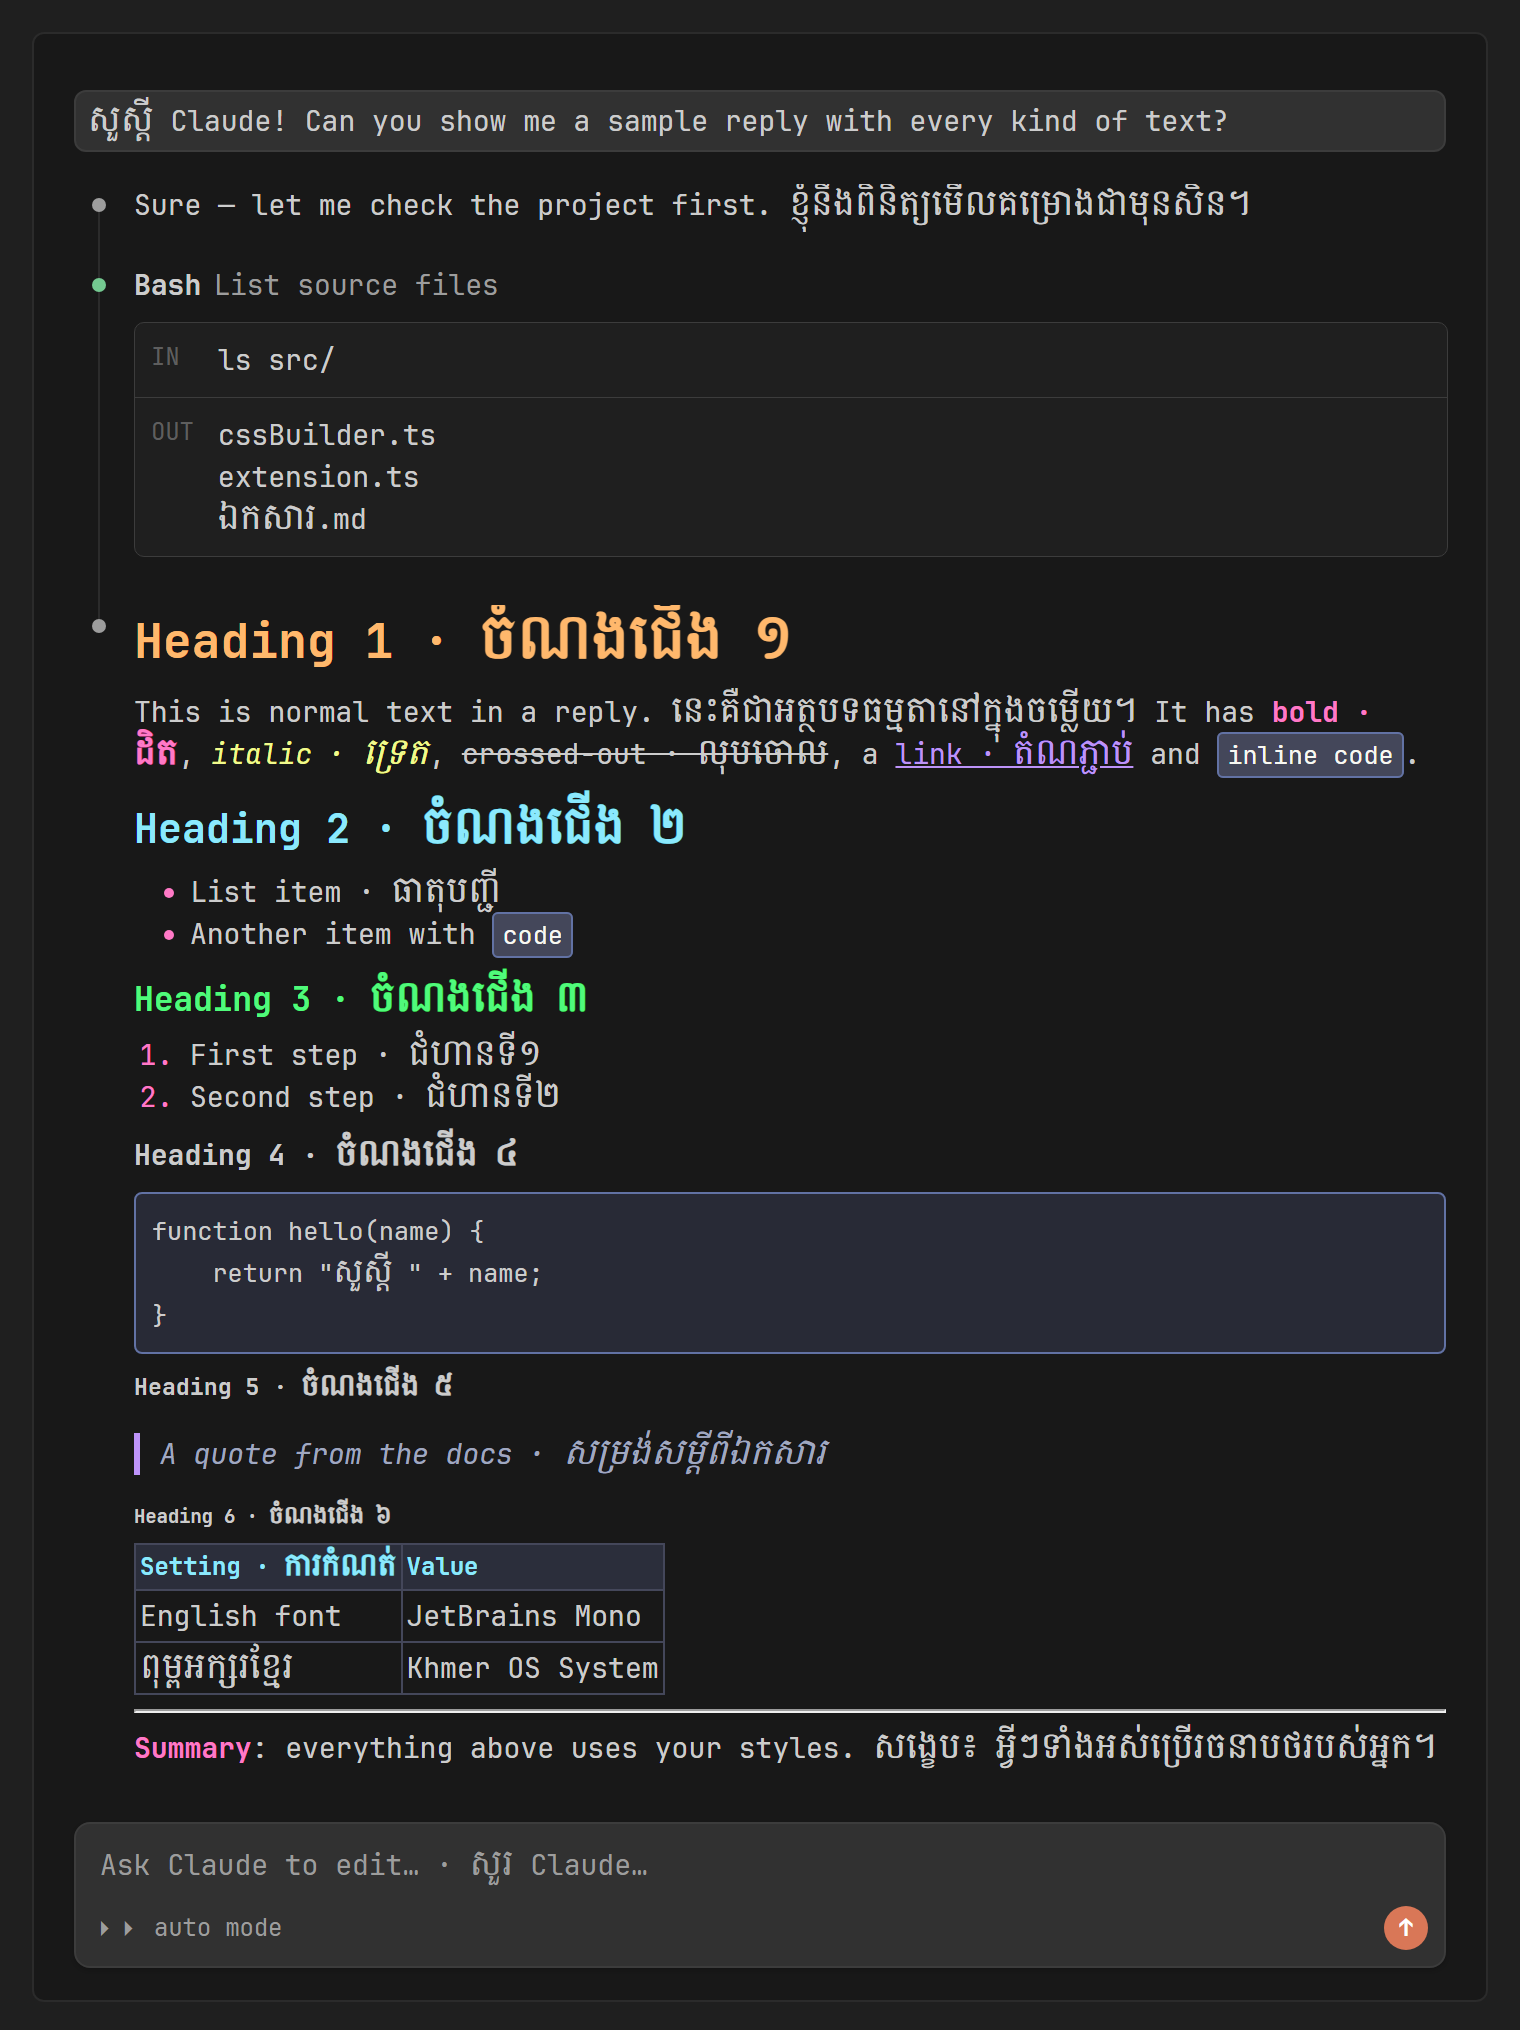
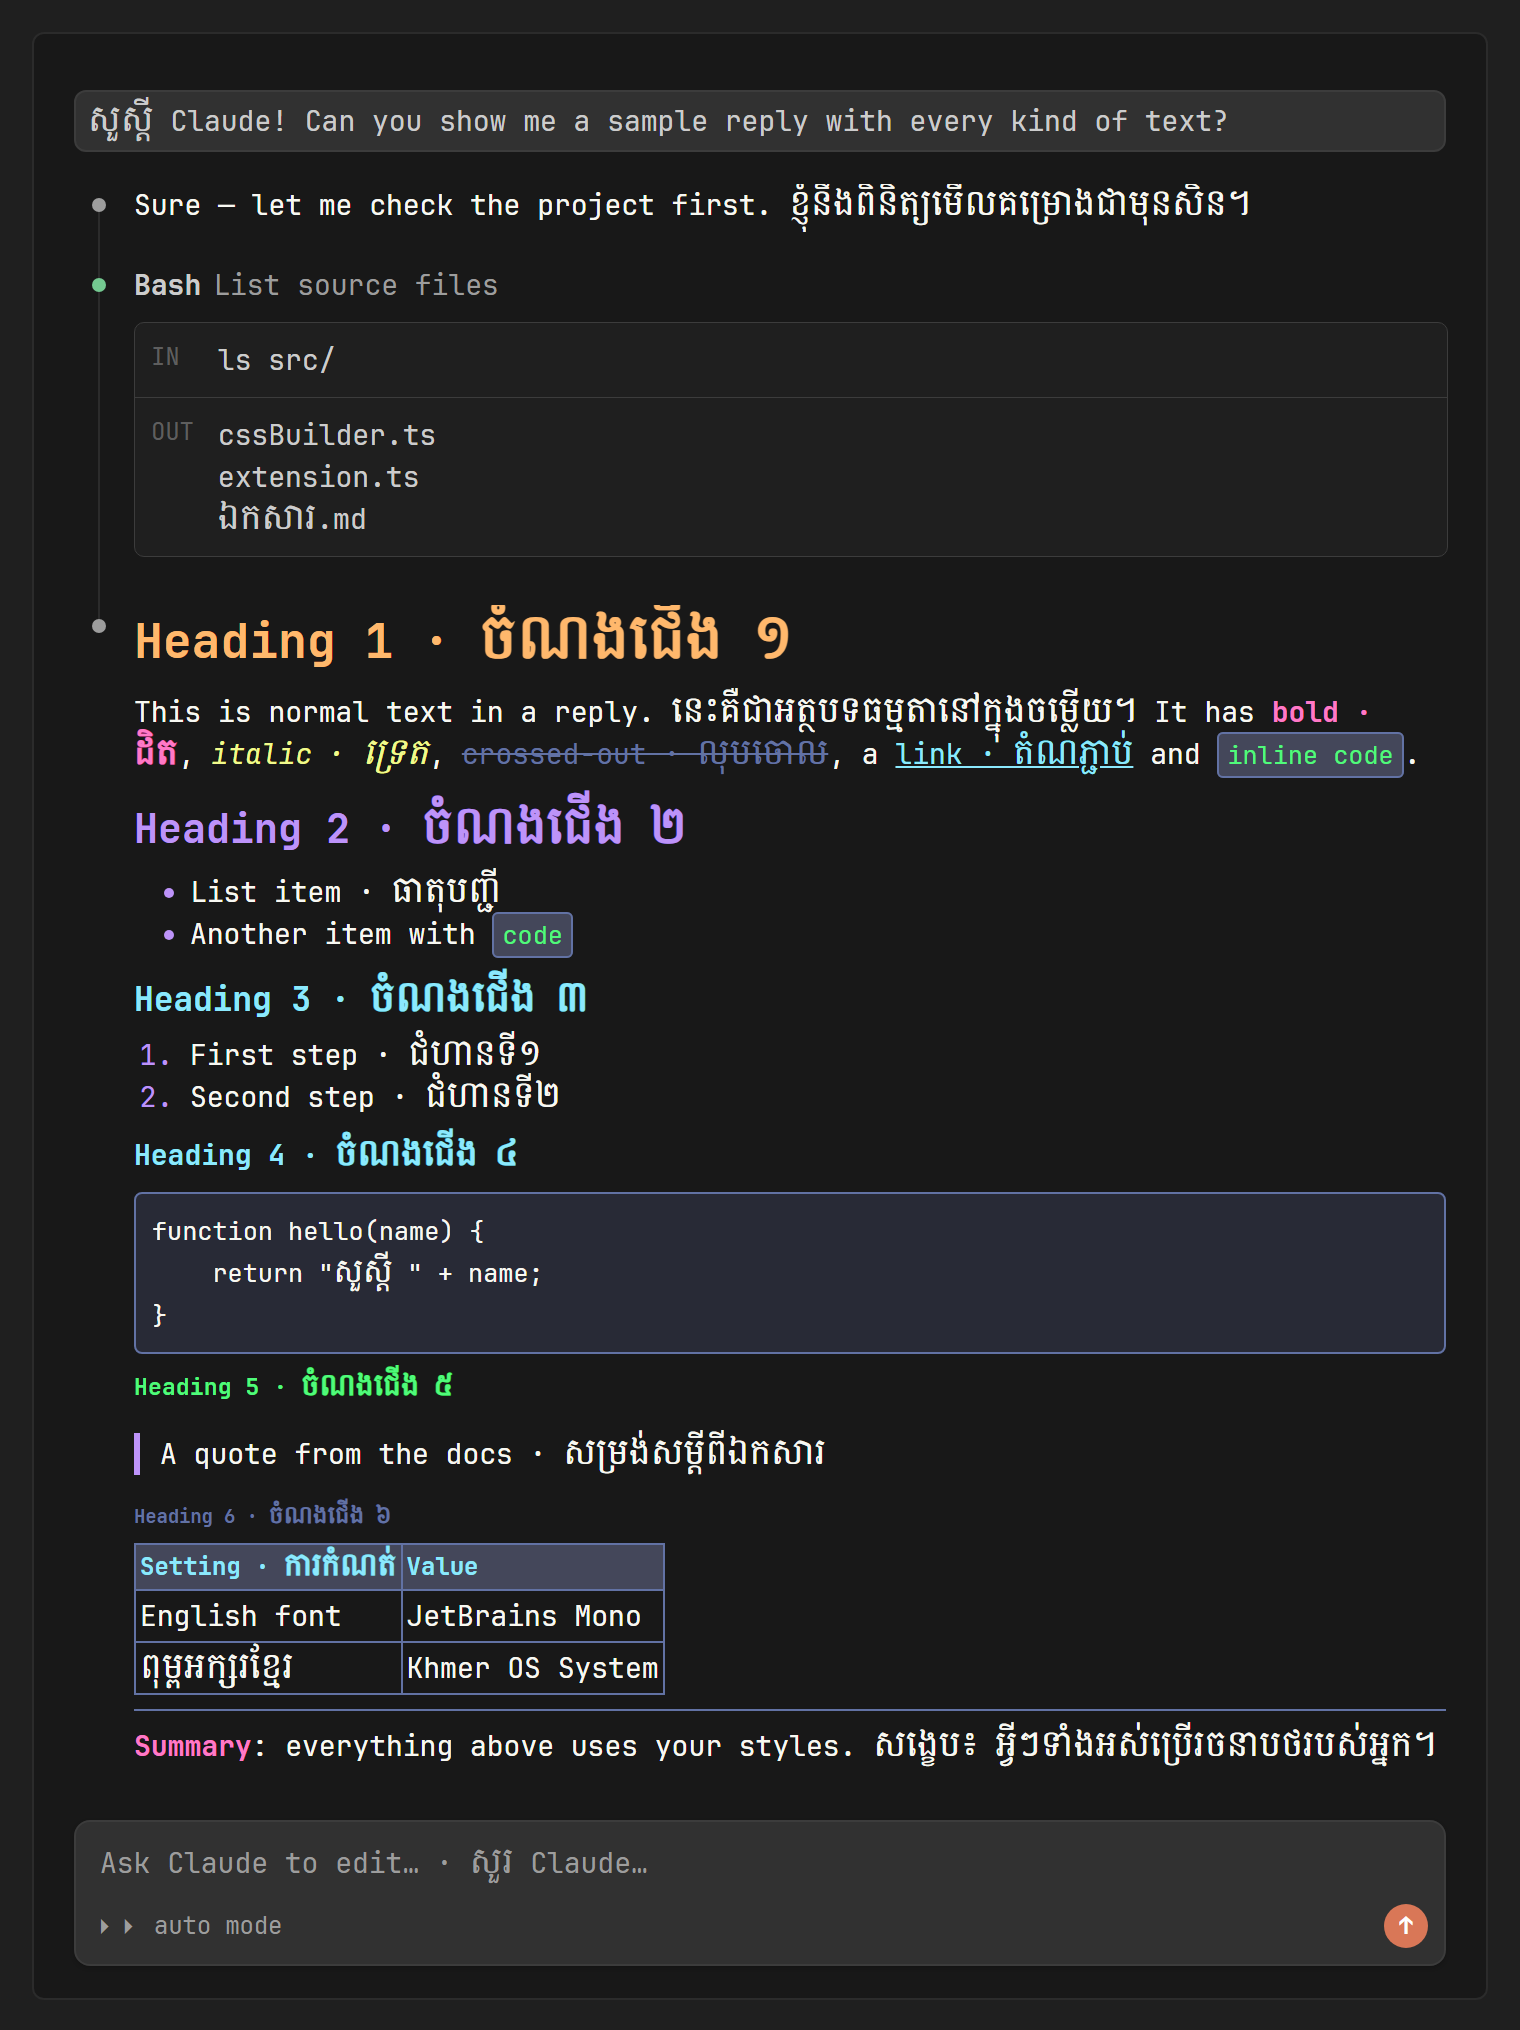
Document presets, add screenshot tool, version 0.4.0

diff --git a/tools/screenshot.js b/tools/screenshot.js
@@ -1,0 +1,106 @@
+// Renders the settings page outside the editor and saves the README screenshots.
+// Usage: npm run screenshots   (Windows, needs Google Chrome)
+const fs = require('fs');
+const os = require('os');
+const path = require('path');
+const { execFileSync } = require('child_process');
+
+const root = path.join(__dirname, '..');
+const { buildCss, chatFamilyList } = require(path.join(root, 'out', 'cssBuilder.js'));
+const { sanitizeConfig } = require(path.join(root, 'out', 'styleConfig.js'));
+const { PRESETS, presetElements, presetMessages } = require(path.join(root, 'out', 'presets.js'));
+
+const CHROME = 'C:/Program Files/Google/Chrome/Application/chrome.exe';
+const work = path.join(os.tmpdir(), 'ccs-shots');
+const images = path.join(root, 'images');
+
+const THEMES = {
+    dark: {
+        'font-family': '"Segoe WPC", "Segoe UI", sans-serif', foreground: '#cccccc', 'editor-background': '#1f1f1f',
+        descriptionForeground: '#9d9d9d', 'input-background': '#313131', 'input-foreground': '#cccccc',
+        'input-border': '#3c3c3c', focusBorder: '#0078d4', 'button-background': '#0078d4', 'button-foreground': '#ffffff',
+        'button-secondaryBackground': '#313131', 'button-secondaryForeground': '#cccccc', 'panel-border': '#2b2b2b',
+        'sideBar-background': '#181818', 'widget-border': '#313131', 'textLink-foreground': '#4daafc',
+        'textCodeBlock-background': '#2b2b2b',
+    },
+    light: {
+        'font-family': '"Segoe WPC", "Segoe UI", sans-serif', foreground: '#3b3b3b', 'editor-background': '#ffffff',
+        descriptionForeground: '#6f6f6f', 'input-background': '#ffffff', 'input-foreground': '#3b3b3b',
+        'input-border': '#cecece', focusBorder: '#005fb8', 'button-background': '#005fb8', 'button-foreground': '#ffffff',
+        'button-secondaryBackground': '#e5e5e5', 'button-secondaryForeground': '#3b3b3b', 'panel-border': '#e5e5e5',
+        'sideBar-background': '#f8f8f8', 'widget-border': '#e5e5e5', 'textLink-foreground': '#005fb8',
+        'textCodeBlock-background': '#f2f2f2',
+    },
+};
+
+const PREVIEW_ONLY = 'body > h1, body > section:not(:last-of-type), .actions, section:last-of-type > h2, '
+    + 'section:last-of-type > .hint { display: none !important; } body { padding: 16px; } #preview { max-width: none; }';
+
+const FONTS = {
+    all: ['JetBrains Mono', 'Cascadia Code', 'Consolas', 'Kantumruy Pro', 'Khmer OS Battambang', 'Khmer OS System'],
+    khmer: ['Kantumruy Pro', 'Khmer OS Battambang', 'Khmer OS Siemreap', 'Khmer OS System', 'Khmer UI'],
+};
+
+function configFor(presetId) {
+    const preset = PRESETS.find((p) => p.id === presetId);
+    const elements = presetElements(preset.palette);
+    elements.h1 = { ...elements.h1, size: 24, weight: 'bold' };
+    elements.h2 = { ...elements.h2, size: 20 };
+    elements.link = { ...elements.link, underline: true };
+    return sanitizeConfig({ englishFont: 'JetBrains Mono', englishSize: 14, khmerFont: 'Khmer OS Battambang', khmerSize: 16, elements });
+}
+
+// Stands in for the extension host: answers the page's messages like SettingsPanel does
+function shim(config) {
+    const init = { type: 'init', config, fonts: FONTS, presets: presetMessages() };
+    const preview = { type: 'previewCss', css: buildCss(config, '#preview .md'), family: chatFamilyList(config), size: config.englishSize };
+    return `window.acquireVsCodeApi = () => ({
+  postMessage(msg) {
+    const reply = (data) => setTimeout(() => window.postMessage(data, '*'), 0);
+    if (msg.type === 'ready') reply(${JSON.stringify(init)});
+    if (msg.type === 'preview') reply(${JSON.stringify(preview)});
+  },
+  getState() {}, setState() {},
+});`;
+}
+
+function writePage(name, config, theme, extraCss) {
+    const vars = Object.entries(THEMES[theme]).map(([k, v]) => `--vscode-${k}: ${v};`).join(' ');
+    const html = fs.readFileSync(path.join(root, 'media', 'panel.html'), 'utf8')
+        .replace(/<meta http-equiv="Content-Security-Policy"[\s\S]*?>/, '')
+        .replace('{{cssUri}}', 'panel.css')
+        .replace('{{jsUri}}', 'panel.js')
+        .replace(/\{\{\w+\}\}/g, '')
+        .replace('</head>', `<style>:root { ${vars} } body { font-size: 13px; } ${extraCss}</style><script>${shim(config)}</script></head>`);
+    const file = path.join(work, name + '.html');
+    fs.writeFileSync(file, html);
+    return file;
+}
+
+function shoot(file, image, width, height) {
+    execFileSync(CHROME, [
+        '--headless=new', '--disable-gpu', '--hide-scrollbars', '--force-device-scale-factor=2',
+        `--window-size=${width},${height}`, '--virtual-time-budget=4000',
+        `--screenshot=${path.join(images, image)}`, 'file:///' + file.replace(/\\/g, '/'),
+    ], { stdio: 'ignore' });
+    console.log('wrote images/' + image);
+}
+
+fs.mkdirSync(work, { recursive: true });
+fs.mkdirSync(images, { recursive: true });
+for (const f of ['panel.css', 'panel.js']) {
+    fs.copyFileSync(path.join(root, 'media', f), path.join(work, f));
+}
+
+shoot(writePage('settings', configFor('dracula'), 'dark', ''), 'settings.png', 940, 1050);
+shoot(writePage('preview', configFor('dracula'), 'dark', PREVIEW_ONLY), 'preview.png', 760, 1015);
+
+writePage('mocha', configFor('catppuccin-mocha'), 'dark', PREVIEW_ONLY);
+writePage('latte', configFor('catppuccin-latte'), 'light', PREVIEW_ONLY);
+const pair = path.join(work, 'presets.html');
+fs.writeFileSync(pair, `<!DOCTYPE html><html><body style="margin:0;background:#1f1f1f;font:14px 'Segoe UI',sans-serif;color:#ccc;display:flex">
+${[['mocha', 'Catppuccin Mocha · dark editor theme'], ['latte', 'Catppuccin Latte · light editor theme']].map(([name, caption]) =>
+    `<figure style="margin:0;width:720px"><figcaption style="padding:12px 16px 0">${caption}</figcaption>
+<iframe src="${name}.html" style="border:0;width:720px;height:1045px"></iframe></figure>`).join('')}
+</body></html>`);
+shoot(pair, 'presets.png', 1440, 1080);

diff --git a/README.md b/README.md
@@ -14,6 +14,7 @@ Khmer text often looks too small next to English at the same size. This extensio
 - **Separate English and Khmer sizes.** Khmer can be larger or smaller than English. English text is never affected.
 - **Style every item in a reply.** Set the font, size, colour, background, border, weight, italic and underline for:
   normal text, headings 1–6, bold, italic, crossed-out, links, inline code, code blocks, list items, bullets and numbers, quotes, table headers, table cells and divider lines.
+- **Theme presets.** One click fills every colour from Dracula, Catppuccin (Latte, Frappé, Macchiato, Mocha), Nord, Gruvbox, One Dark or Tokyo Night.
 - **Live preview.** A mock Claude Code chat updates as you type, so you can see the result before you apply it.
 - **Terminal support.** Your fonts also apply to the integrated terminal, including the separate Khmer size.
 - **Survives Claude Code updates.** When Claude Code updates, your styles are added back automatically at startup.
@@ -24,6 +25,20 @@ Khmer text often looks too small next to English at the same size. This extensio
 ![The Claude Style Settings page with font pickers and the text style table](https://github.com/smith89k/claude-code-style/raw/HEAD/images/settings.png)
 
 Leave any box empty to keep Claude Code's normal look for that item. Boxes that don't apply to an item are greyed out.
+
+## Presets
+
+Pick a theme from the **Preset** menu above the style table. It fills in every colour box at once. You can still change any box afterwards, and nothing is saved until you click **Apply**.
+
+| Dark | Light |
+|---|---|
+| Dracula · Catppuccin Frappé · Catppuccin Macchiato · Catppuccin Mocha · Nord · Gruvbox Dark · One Dark · Tokyo Night · Tokyo Night Storm | Catppuccin Latte · Gruvbox Light · Tokyo Night Day |
+
+![Catppuccin Mocha on a dark editor theme next to Catppuccin Latte on a light editor theme](https://github.com/smith89k/claude-code-style/raw/HEAD/images/presets.png)
+
+- Presets only change colours. Your fonts, sizes, weight, italic and underline stay as they are.
+- The chat background follows your editor's colour theme, so pick a **light** preset if your editor theme is light, and a **dark** one if it is dark.
+- Colours come from each theme's official open-source palette. Theme names belong to their authors, and this extension is not affiliated with them.
 
 ## Getting started
 

diff --git a/CHANGELOG.md b/CHANGELOG.md
@@ -1,5 +1,11 @@
 # Changelog
 
+## 0.4.0
+
+- New **Preset** menu: fill every colour from Dracula, Catppuccin Latte / Frappé / Macchiato / Mocha, Nord, Gruvbox Dark / Light, One Dark or Tokyo Night / Storm / Day.
+- Presets change only colours; fonts, sizes and other styles are kept.
+- Light presets are marked "For light editor themes".
+
 ## 0.3.1
 
 - First public release on the VS Code Marketplace and Open VSX.
